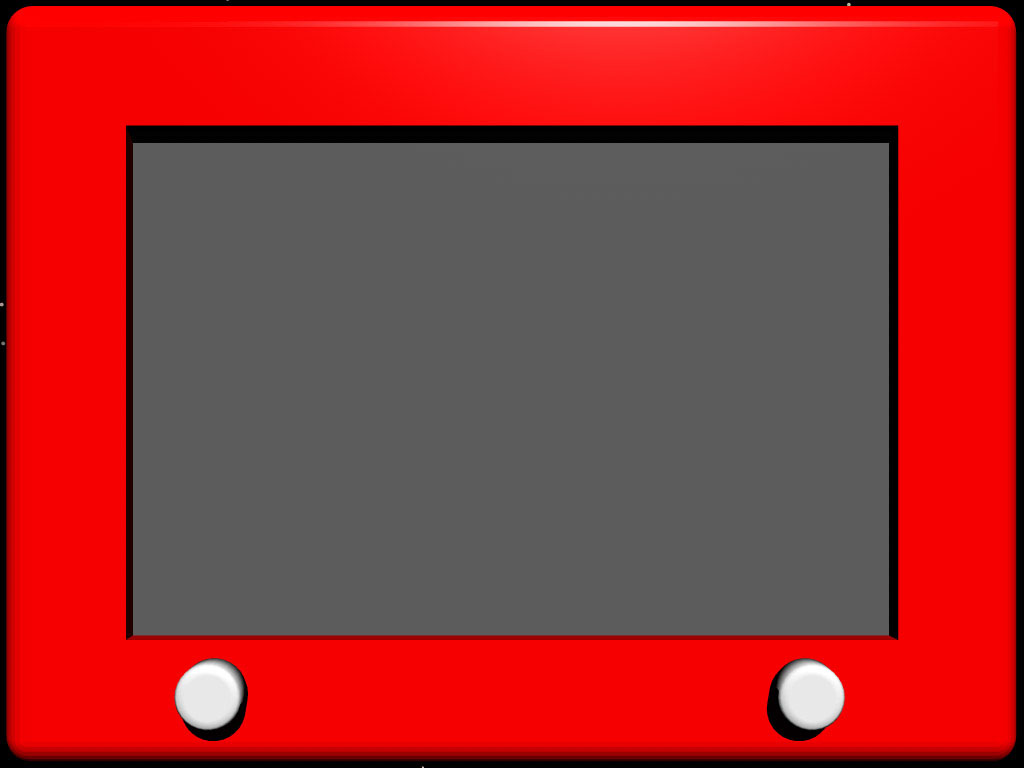
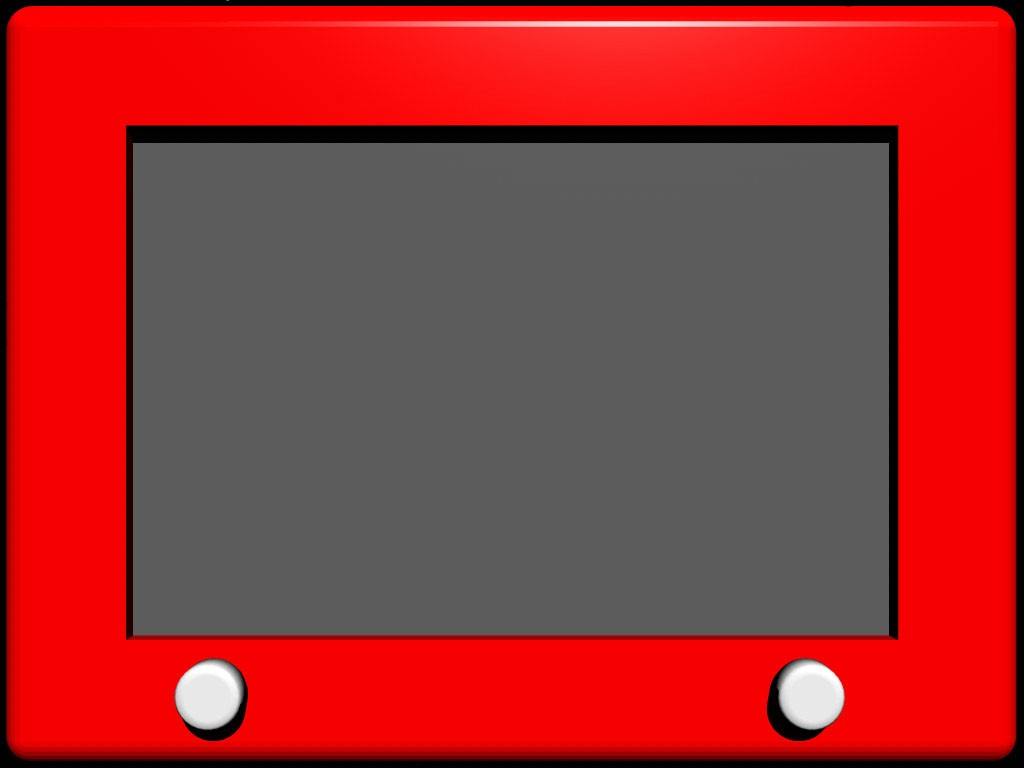
Cleaned up background image. Refactored some of the code into functions. Added functionality to the clear button. Cursor must now be dragged in order to draw.

Changed region(s): [[0.4375, 0.0, 0.7812, 0.0312], [0.75, 0.9375, 0.7812, 0.9688]]

diff --git a/script.js b/script.js
@@ -1,16 +1,43 @@
 const playArea = document.querySelector('#play-area');
+const clearButton = document.querySelector('#clear');
 
-for (let i = 0; i < 5828; i++) {
-  let pixel = document.createElement('div');
-  pixel.classList.add('pixel');
+playArea.classList.add('no-pointers');
 
-  playArea.append(pixel);
+document.addEventListener('mousedown', () => {
+  playArea.classList.toggle('no-pointers');
+});
+
+document.addEventListener('mouseup', () => {
+  playArea.classList.add('no-pointers');
+});
+
+function populate() {
+  // Populate the pixels.
+  for (let i = 0; i < 5828; i++) {
+    let pixel = document.createElement('div');
+    pixel.classList.add('pixel');
+
+    playArea.append(pixel);
+  }
+  // Add coloring functionality to new pixels.
+  let pixels = document.querySelectorAll('.pixel');
+
+  pixels.forEach((pixel) => {
+    pixel.addEventListener('mouseover', () => {
+      pixel.classList.add('filled');
+    });
+  });
 }
 
-let pixels = document.querySelectorAll('.pixel');
+function clearPlay() {
+  // Remove all pixels from play-area.
+  playArea.innerHTML = '';
+}
 
-pixels.forEach((pixel) => {
-  pixel.addEventListener('mouseover', () => {
-    pixel.classList.add('filled');
-  });
+populate();
+
+// Clear play-area and repopulate with fresh pixels.
+clearButton.addEventListener('click', () => {
+  clearPlay();
+  populate();
 });

diff --git a/style.css b/style.css
@@ -15,6 +15,7 @@ body {
   background-image: url('background.jpg');
   background-position: center;
   background-repeat: no-repeat;
+  background-color: black;
 }
 
 #play-area {
@@ -24,6 +25,14 @@ body {
   height: 496px;
   width: 752px;
   margin-top: 4px;
+}
+
+#play-area:hover {
+  cursor: crosshair;
+}
+
+.no-pointers {
+  pointer-events: none;
 }
 
 .pixel {
@@ -38,7 +47,7 @@ body {
 }
 
 #clear {
-  margin-top: 625px;
+  margin-top: 600px;
   padding: 10px;
   border-radius: 25px;
 }
